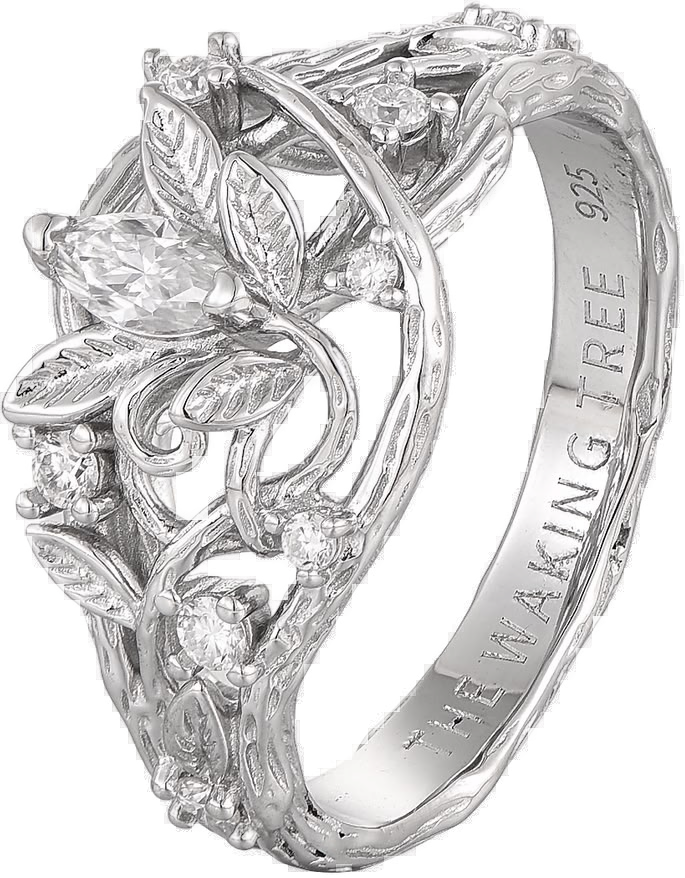
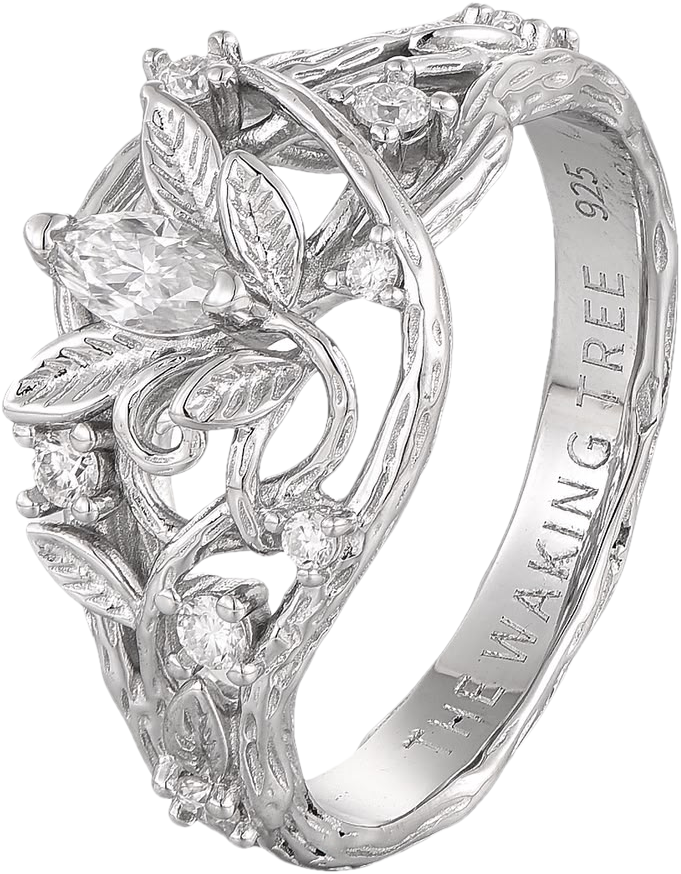
Ana video: smoother silver ring cut-out, larger signature
Claude-Session: https://claude.ai/code/session_01WUxXCNgmo27spHoYTkSwqs

diff --git a/videos/ana-waking-tree/index.html b/videos/ana-waking-tree/index.html
@@ -97,7 +97,7 @@
             <path class="draw" d="M590 540 C 578 500, 600 456, 632 452 C 640 488, 620 524, 590 540 Z" />
           </g>
         </svg>
-        <div id="s2-ring" class="ring" style="width:685px;height:878px;margin:-480px 0 0 -342px;">
+        <div id="s2-ring" class="ring" style="width:681px;height:874px;margin:-478px 0 0 -340px;">
           <img src="assets/ring-silver-cut.png" style="width:100%;height:100%;display:block;" alt="" />
         </div>
         <div class="text-block" style="top:1470px;">
@@ -132,7 +132,7 @@
         <div class="text-block" style="top:430px;">
           <span class="line serif-l" data-split>Totally obsessed.</span>
           <span class="line serif-l" data-split>So beautiful.</span>
-          <span id="sig" class="line label" style="margin-top:34px;color:var(--ink);opacity:0.85;">&mdash; Ana</span>
+          <span id="sig" class="line label" style="margin-top:34px;font-size:32px;color:var(--ink);opacity:0.85;">&mdash; Ana</span>
         </div>
       </div>
 
@@ -156,7 +156,7 @@
       <!-- S7: end card -->
       <div id="s7" class="clip scene" data-start="21.1" data-duration="4.9" data-track-index="6">
         <div class="glow" style="top:640px;"></div>
-        <div id="s7-ring" class="ring" style="width:420px;height:538px;margin:0;left:330px;top:400px;">
+        <div id="s7-ring" class="ring" style="width:420px;height:539px;margin:0;left:330px;top:400px;">
           <img src="assets/ring-silver-cut.png" style="width:100%;height:100%;display:block;" alt="" />
         </div>
         <div class="text-block" style="top:1010px;">
